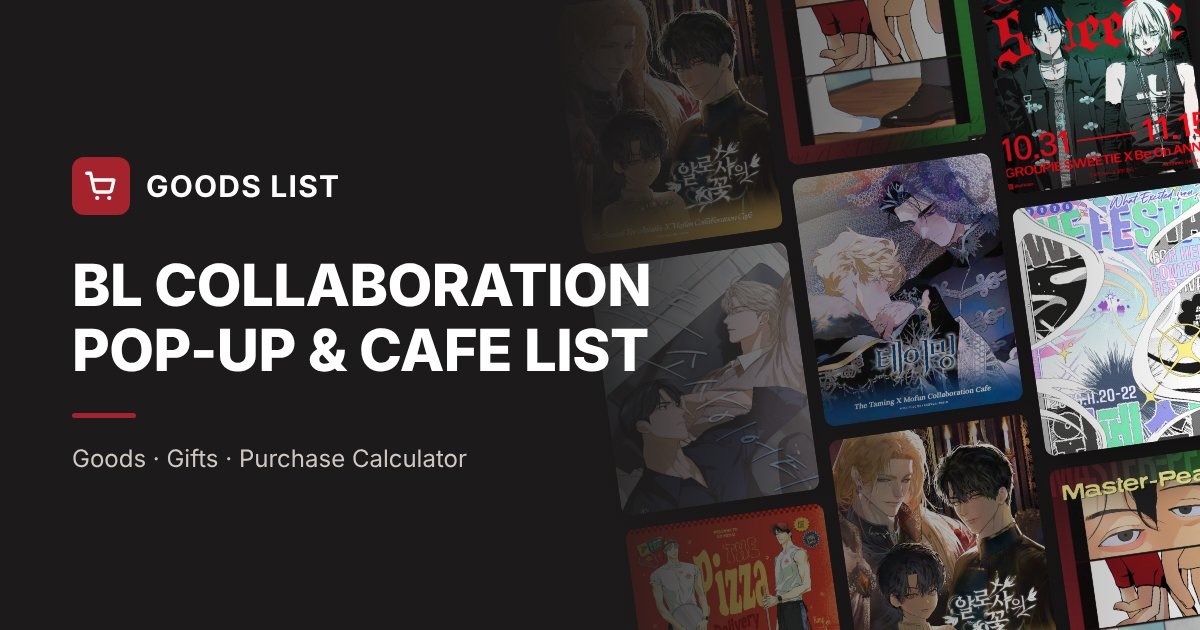
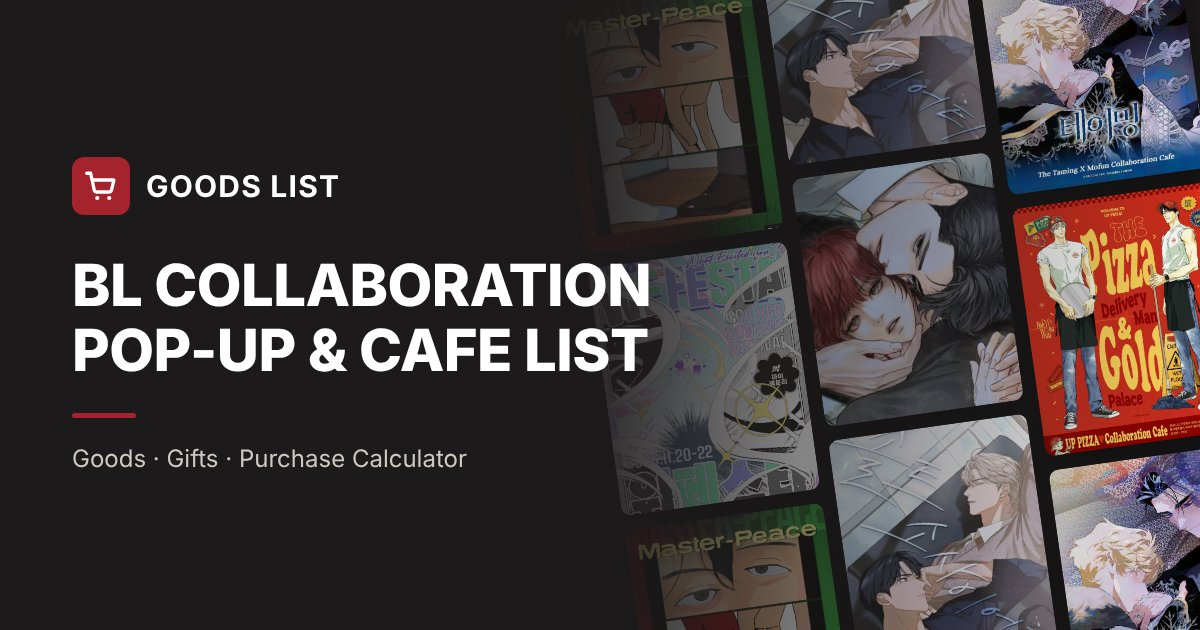
들이닥치다 × 투니크 콜라보 카페(홍대점) 추가, 링크 미리보기 갱신
Claude-Session: https://claude.ai/code/session_016s7oh25f265a5L8SgmxWsx

diff --git a/index.html b/index.html
@@ -11,14 +11,14 @@
 <meta property="og:title" content="GOODS LIST · BL 콜라보 팝업 & 카페 리스트">
 <meta property="og:description" content="BL 콜라보 팝업스토어·카페 굿즈 리스트와 구매 특전 계산기. 굿즈를 담으면 특전 개수와 합계를 바로 계산해요.">
 <meta property="og:url" content="https://rinixxxrini.github.io/">
-<meta property="og:image" content="https://rinixxxrini.github.io/img/og.jpg?v=20261113">
+<meta property="og:image" content="https://rinixxxrini.github.io/img/og.jpg?v=20261117">
 <meta property="og:image:width" content="1200">
 <meta property="og:image:height" content="630">
 <meta property="og:locale" content="ko_KR">
 <meta name="twitter:card" content="summary_large_image">
 <meta name="twitter:title" content="GOODS LIST · BL 콜라보 팝업 & 카페 리스트">
 <meta name="twitter:description" content="BL 콜라보 팝업스토어·카페 굿즈 리스트와 구매 특전 계산기.">
-<meta name="twitter:image" content="https://rinixxxrini.github.io/img/og.jpg?v=20261113">
+<meta name="twitter:image" content="https://rinixxxrini.github.io/img/og.jpg?v=20261117">
 <link rel="preconnect" href="https://fonts.googleapis.com">
 <link rel="preconnect" href="https://fonts.gstatic.com" crossorigin>
 <link href="https://fonts.googleapis.com/css2?family=Nanum+Myeongjo:wght@700;800&family=IBM+Plex+Sans+KR:wght@400;500;600&display=swap" rel="stylesheet">
@@ -996,6 +996,38 @@ const PZ_ITEMS = [
   {no:34,tag:"14",cat:"아크릴·키링",name:"성장 앨범 키링",sub:"55×62mm · 20매",price:15000,vars:["도우원","강서안"],limit:1,perDesign:true},
   {no:35,tag:"15",cat:"포토카드·지류",name:"포토팩",sub:"파일, 포스터, 엽서, 포토카드, 네컷포토, 렌티큘러 포토카드",price:17000},
 ];
+const DC_IMGS = {"1": "img/dc_imgs/1-e29c7363.jpg", "2": "img/dc_imgs/2-6ae1a6ae.jpg", "3": "img/dc_imgs/3-ae4ccdb4.jpg", "4": "img/dc_imgs/4-316660d4.jpg", "5": "img/dc_imgs/5-e48c5f83.jpg", "6": "img/dc_imgs/6-4507e925.jpg", "7": "img/dc_imgs/7-15dcf103.jpg", "8": "img/dc_imgs/8-2a10bc42.jpg", "11": "img/dc_imgs/11-4f2b7b52.jpg", "12": "img/dc_imgs/12-bd7c3e4c.jpg", "13": "img/dc_imgs/13-b43ba27c.jpg", "14": "img/dc_imgs/14-df25d1ca.jpg", "15": "img/dc_imgs/15-392ddc2b.jpg", "16": "img/dc_imgs/16-fd7a2ebf.jpg", "17": "img/dc_imgs/17-32ae1d84.jpg", "18": "img/dc_imgs/18-f585ef34.jpg", "19": "img/dc_imgs/19-74e9e5c1.jpg", "20": "img/dc_imgs/20-9b535415.jpg", "21": "img/dc_imgs/21-fa9ffd1b.jpg", "22": "img/dc_imgs/22-9e210925.jpg", "23": "img/dc_imgs/23-4671a6c6.jpg", "24": "img/dc_imgs/24-9f3253e6.jpg", "25": "img/dc_imgs/25-5d5b6b15.jpg", "26": "img/dc_imgs/26-3024852a.jpg"};
+const DC_GIMG = {"coaster": "img/dc_gimg/coaster-26548c27.jpg", "hbd": "img/dc_gimg/hbd-39196878.jpg", "stamp": "img/dc_gimg/stamp-adc3bc65.jpg", "seal": "img/dc_gimg/seal-fe017f58.jpg", "pc": "img/dc_gimg/pc-9f1ed8b6.jpg"};
+const DC_GUIDES = [{"title": "일정 · 예약 · 공지", "img": "img/dc_guides/info-bfc2e238.jpg"}, {"title": "콜라보 메뉴", "img": "img/dc_guides/menu-ccc3cc44.jpg"}, {"title": "MD 1", "img": "img/dc_guides/md1-ac18c6dc.jpg"}, {"title": "MD 2", "img": "img/dc_guides/md2-57f1a372.jpg"}, {"title": "스탬프 · 해시태그 이벤트", "img": "img/dc_guides/event-81d852e6.jpg"}];
+const DC_COVER = "img/dc_cover/cover-4e571b10.jpg";
+const DC_BOARD = "img/dc_guides/menu-ccc3cc44.jpg";
+const DC_CATS = ["카페 메뉴","MD"];
+const DC_ITEMS = [
+  {no:1,tag:"M1",cat:"카페 메뉴",name:"<풍기교육대> 흑임자 라테",price:7000,noElig:true},
+  {no:2,tag:"M2",cat:"카페 메뉴",name:"권세혁의 솔티 카라멜 라테",price:7000,noElig:true},
+  {no:3,tag:"M3",cat:"카페 메뉴",name:"하신성의 쌍화차",price:6500,noElig:true},
+  {no:4,tag:"M4",cat:"카페 메뉴",name:"신해범의 크림 브륄레",price:8000,noElig:true},
+  {no:5,tag:"M5",cat:"카페 메뉴",name:"정류진의 딸기 병아리 케이크",price:8000,noElig:true},
+  {no:6,tag:"M6",cat:"카페 메뉴",name:"호월루 영양 닭죽",price:8500,noElig:true},
+  {no:7,tag:"B",cat:"카페 메뉴",name:"<HBD 해범류진> 블랙 커런트 에이드",sub:"Birthday Menu · 렌티큘러 포토카드 1종 증정 · 메뉴 쿠폰 사용 불가",price:8000,noElig:true},
+  {no:8,tag:"C",cat:"카페 메뉴",name:"일러스트 쿠키 (4종)",sub:"이미지 왼쪽부터 1~4번",price:4000,vars:["1번","2번","3번","4번"],noElig:true},
+  {no:11,cat:"MD",name:"아크릴 스탠드",sub:"4종 · 이미지 왼쪽부터 1~4번",price:15000,vars:["1번","2번","3번","4번"],limit:5,perDesign:true},
+  {no:12,cat:"MD",name:"워터 글리터",price:23000,limit:5},
+  {no:13,cat:"MD",name:"수갑 카라비너 SET",sub:"수갑 카라비너, 포토카드 2종",price:19000,limit:5},
+  {no:14,cat:"MD",name:"일러스트 포토카드 (랜덤 2종)",price:3500,note:"구매 수량 제한 없음"},
+  {no:15,cat:"MD",name:"경단 인형 SET",price:24000,limit:5},
+  {no:16,cat:"MD",name:"군인 인식표 SET",sub:"인식표 2종, 포토카드 2종",price:23000,limit:5},
+  {no:17,cat:"MD",name:"렌티큘러 포토카드 SET",price:10000,limit:5},
+  {no:18,cat:"MD",name:"타겟 파일 SET",sub:"서류 봉투, 운전면허증, 프레임 투명 엽서, 일러스트 엽서 3종, 학적기록부 4종",price:16000,limit:5},
+  {no:19,cat:"MD",name:"아크릴 디오라마",sub:"아크릴 디오라마, 포토카드",price:28000,limit:5},
+  {no:20,cat:"MD",name:"SD 아크릴 키링",sub:"5종 · 이미지 위 왼쪽부터 1~5번",price:7000,vars:["1번","2번","3번","4번","5번"],limit:5,perDesign:true},
+  {no:21,cat:"MD",name:"흔들 미니 아크릴",price:13000,limit:5},
+  {no:22,cat:"MD",name:"입체 마우스 패드 SET",sub:"입체 마우스 패드, 포토카드",price:29000,limit:5},
+  {no:23,cat:"MD",name:"마스킹 테이프",price:7000,limit:5},
+  {no:24,cat:"MD",name:"바인더",price:23000,limit:5},
+  {no:25,cat:"MD",name:"캐릭터 티켓 (랜덤 1종)",price:5000,note:"구매 수량 제한 없음"},
+  {no:26,cat:"MD",name:"<풍기교육대> 패키지",sub:"타월, 금속뱃지, 신분증 2종, 포토카드 2종",price:28000,limit:5},
+];
 const SS_IMGS = {"1": "img/ss_imgs/1-59cce83e.jpg", "2": "img/ss_imgs/2-9aba2032.jpg", "3": "img/ss_imgs/3-bcfadcc4.jpg", "4": "img/ss_imgs/4-0afd920f.jpg", "5": "img/ss_imgs/5-e586728d.jpg", "6": "img/ss_imgs/6-835cab16.jpg", "7": "img/ss_imgs/7-e24e8e7e.jpg", "11": "img/ss_imgs/11-1651b670.jpg", "12": "img/ss_imgs/12-0fa0dcc1.jpg", "13": "img/ss_imgs/13-19b82807.jpg", "14": "img/ss_imgs/14-da30c936.jpg", "15": "img/ss_imgs/15-11a86fe5.jpg", "16": "img/ss_imgs/16-50c8a0e8.jpg", "17": "img/ss_imgs/17-3210d151.jpg", "18": "img/ss_imgs/18-545e0119.jpg", "19": "img/ss_imgs/19-87c1b99d.jpg", "20": "img/ss_imgs/20-0583c6e3.jpg", "21": "img/ss_imgs/21-9c231249.jpg", "22": "img/ss_imgs/22-943e6d65.jpg", "23": "img/ss_imgs/23-00a07d57.jpg"};
 const SS_GIMG = {"coaster": "img/ss_gimg/coaster-3a5f643c.jpg", "stamp": "img/ss_gimg/stamp-3fd74f4e.jpg", "seal": "img/ss_gimg/seal-5a055d1b.jpg", "pc": "img/ss_gimg/pc-a2d7374e.jpg", "postcard": "img/ss_gimg/postcard-ba976eb1.jpg", "set": "img/ss_gimg/set-31d79178.jpg"};
 const SS_GUIDES = [{"title": "일정 · 예약 · 공지", "img": "img/ss_guides/info-6bf53d35.jpg"}, {"title": "콜라보 메뉴", "img": "img/ss_guides/menu-3dd7eded.jpg"}, {"title": "MD 1", "img": "img/ss_guides/md1-07a02976.jpg"}, {"title": "MD 2", "img": "img/ss_guides/md2-99d2dcd7.jpg"}, {"title": "메뉴 스탬프 · 해시태그 이벤트", "img": "img/ss_guides/ev-2f72cd3a.jpg"}, {"title": "증정품 (GIFT)", "img": "img/ss_guides/gift-d288154b.jpg"}, {"title": "럭키 드로우 이벤트", "img": "img/ss_guides/ld-2a13849e.jpg"}];
@@ -1215,6 +1247,62 @@ const EVENTS = [{
     ]
   },
   guides:[PZ_GUIDES[0], ...PZ_GUIDES_ALL]
+},{
+  id:"dc",
+  work:"들이닥치다",
+  kw:"들이닥치다 들닥 조은 클라시나 신해범 정류진 해범류진 권세혁 하신성 풍기교육대 투니크 toonique 홍대",
+  rsv:true,
+  title:"들이닥치다 × Toonique",
+  cardSub:"카페 투니크 홍대점",
+  sub:"카페 투니크 홍대점",
+  subFull:"들이닥치다 × 투니크 콜라보 카페(홍대점) 계산기",
+  dates:"2026.11.25(수) - 2026.12.13(일)",
+  imgs:DC_IMGS, gimg:DC_GIMG,
+  menuBoard:DC_BOARD, menuCat:"카페 메뉴",
+  cover:DC_COVER,
+  hasLd:false,
+  catLabel:"구분",
+  cats:DC_CATS,
+  items:DC_ITEMS,
+  giftTitle:"증정품",
+  cartHint:"장바구니 1개 = 영수증 1건이에요. MD는 품목별 최대 5개이고, 일러스트 포토카드와 캐릭터 티켓은 제한이 없어요.",
+  gifts:[
+    {id:"coaster",cafe:true,short:"코스터",name:"코스터 (8종)",cond:"콜라보 메뉴 단품 1개당 1종 랜덤 · 쿠키는 2개 주문 시 1종 · 생일 메뉴는 제외",img:"coaster",rule:{type:"parts",parts:[{nos:[1,2,3,4,5,6]},{nos:[8],div:2}]},unit:"매"},
+    {id:"hbd",cafe:true,short:"렌티큘러 포카",name:"렌티큘러 포토카드 (생일 메뉴 특전)",cond:"<HBD 해범류진> 블랙 커런트 에이드 1잔당 1종 · 코스터 대신 주는 별도 특전",img:"hbd",rule:{type:"items",nos:[7]},unit:"장"},
+    {id:"stamp",cafe:true,short:"스탬프",name:"메뉴 스탬프",cond:"콜라보 메뉴 1개당 1개로 계산 · 실제 구매 시점에만 적립",img:"stamp",rule:{type:"items",nos:[1,2,3,4,5,6,7,8]},unit:"개"},
+    {id:"seal",cafe:true,short:"띠부띠부씰",name:"띠부띠부씰 3종 SET",cond:"스탬프 6개 적립 시 1세트 증정",img:"seal",rule:{type:"items",nos:[1,2,3,4,5,6,7,8],div:6},unit:"세트"},
+  ],
+  notes:[
+    "공지 이미지에는 MD 구매 금액 특전이 없어서 메뉴 특전(코스터·생일 메뉴 렌티큘러 포토카드·스탬프)만 계산했어요.",
+    "코스터는 콜라보 메뉴 단품 또는 쿠키 2개를 주문하면 1종 랜덤으로 줘요. <HBD 해범류진> 블랙 커런트 에이드는 코스터 대신 렌티큘러 포토카드를 따로 줘요. 코스터와 데코픽은 소진되면 증정이 끝나요.",
+    "메뉴 스탬프 6개를 모으면 띠부띠부씰 3종 SET을 줘요. 영수증이나 메뉴 쿠폰으로는 적립이 어렵고 실제 구매 시점에만 적립돼요. 스탬프 카드는 합산이나 재발급이 안 돼요. (스탬프 계산은 메뉴 1개당 1개로 했어요)",
+    "카페 테이블 이용 시 1인 1메뉴 주문이 필수예요. 모든 메뉴는 현장 상황에 따라 일시 소진될 수 있어요.",
+    "MD 최대 구매 수량은 품목별 5개예요. 일러스트 포토카드, 캐릭터 티켓, 럭키 드로우는 제한이 없어요. 대량 구매는 온라인 예약 구매를 이용하세요. (온라인 예약 오픈 11/25)",
+    "운영 시간은 오전 11시~오후 9시이고 타임별 라스트 오더는 마감 15분 전이에요. 위치는 서울 마포구 동교동 147-34 카페 투니크 홍대점이에요.",
+    "네이버 사전 예약은 11/19(목) 오후 6시 오픈이에요. 1회 예약에 본인 포함 최대 2인, 예약금 3,000원(카페 방문 시 환불), 이용 시간 105분이고 당일 예약·취소는 안 돼요. 해당 시간에 방문하지 않으면 예약금은 환불되지 않아요.",
+    "예약 가능 타임: 11:00-12:45 / 13:00-14:45 / 15:00-16:45 / 17:00-18:45 / 19:00-20:45. 본인 확인을 위해 예약자 성함과 핸드폰 번호 뒷자리가 필요해요.",
+    "11/25(수)~11/27(금)에는 네이버 사전 예약자만 카페 이용과 상품 구매를 할 수 있어요. 11/28(토)부터는 비예약자도 식음료 테이크아웃과 상품 구매가 가능하지만 메뉴·MD 결제는 예약자가 우선이에요.",
+    "카페 내부 좌석은 예약자 우선이고(1·2층 동일), 2층 야외 좌석은 비예약자도 쓸 수 있어요. (테이블·좌석 이용 시 1인 1메뉴 필수)",
+    "결제는 예약자 우선이고, 비예약자는 각 타임 오픈 30분 이후부터 결제할 수 있어요. 현장 상황에 따라 달라질 수 있어요."
+  ],
+  complete:{
+    title:"해시태그 이벤트 (일러스트 포토카드 9종)",
+    tab:"해시태그 이벤트",
+    sub:"1일 1인 1회 수령 · 하루 최대 3장 · 체크는 자정이 지나면 풀려요",
+    items:[
+      {k:"h1",daily:true,img:"pc",name:"① 웹툰 공식 플랫폼 전체 회차 소장 인증 (+1장)",cond:"<들이닥치다> 웹툰 공식 플랫폼에서 전체 회차 소장 인증 · 다운로드 내역으로만 가능하고 스크린샷으로는 참여할 수 없어요"},
+      {k:"h2",daily:true,img:"pc",name:"② MD 구매 인증 게시글 (+1장)",cond:"<들이닥치다> MD 구매 인증 게시글을 필수 해시태그와 함께 작성"},
+      {k:"h3",daily:true,img:"pc",name:"③ 메뉴 구매 인증 게시글 (+1장)",cond:"<들이닥치다> 메뉴 구매 인증 게시글을 필수 해시태그와 함께 작성"}
+    ],
+    collect:{n:9,title:"일러스트 포토카드 도감"},
+    note:"카운터에서 당일 게시글을 보여주면 포토카드를 랜덤으로 줘요. 필수 해시태그: #들이닥치다 #들닥 #콜라보카페 #조은 #클라시나 #투니크",
+    notes:[
+      "당일 인증이 끝난 영수증은 같은 날 다시 쓸 수 없고, 재발행한 영수증으로는 어떤 경우에도 참여할 수 없어요.",
+      "작품 소장 인증은 다운로드 내역으로만 가능하고 스크린샷으로는 참여할 수 없어요.",
+      "이 이벤트는 증정품이 소진되면 조기 종료돼요."
+    ]
+  },
+  guides:DC_GUIDES
 },{
   id:"ss",
   work:"솔트 소사이어티",
@@ -2058,7 +2146,7 @@ const EVENTS = [{
 const GROUPS = {
   kdl:{work:"키스 미 이프 유 캔\n디자이어 미 이프 유 캔",kw:"키스 미 이프 유 캔 디자이어 미 이프 유 캔 키이프 디이프 kiss me if you can desire me if you can 키스 디자이어 랜드 굿즈모먼트 goodsmoment",title:"Kiss × Desire Land",sub:"굿즈모먼트 2F · 4F",dates:"2026.10.8(목) - 2026.11.1(일)",cover:KD_COVER,parts:["kdl-pop","kdl-cafe"],entry:"kdl-pop"}
 };
-const HOME = [{ev:"tm"},{ev:"wf"},{ev:"pz"},{ev:"ss"},{ev:"gs"},{ev:"af"},{ev:"jp"},{ev:"sp"},{ev:"usl"},{ev:"ws"},{ev:"jinx"},{group:"kdl"},{ev:"lap"},{ev:"sg"},{ev:"mtg"},{ev:"bv"},{ev:"sh"}];
+const HOME = [{ev:"dc"},{ev:"tm"},{ev:"wf"},{ev:"pz"},{ev:"ss"},{ev:"gs"},{ev:"af"},{ev:"jp"},{ev:"sp"},{ev:"usl"},{ev:"ws"},{ev:"jinx"},{group:"kdl"},{ev:"lap"},{ev:"sg"},{ev:"mtg"},{ev:"bv"},{ev:"sh"}];
 
 /* 날짜는 KST(한국 시간) 기준으로 판단해요 */
 const kstToday = () => { const d = new Date(Date.now() + 9*3600e3); return Date.UTC(d.getUTCFullYear(), d.getUTCMonth(), d.getUTCDate()); };
